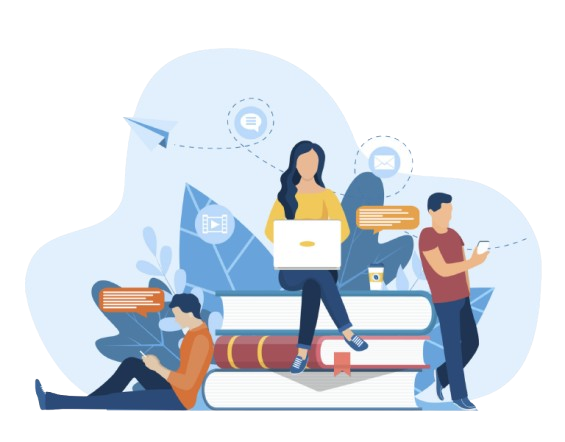
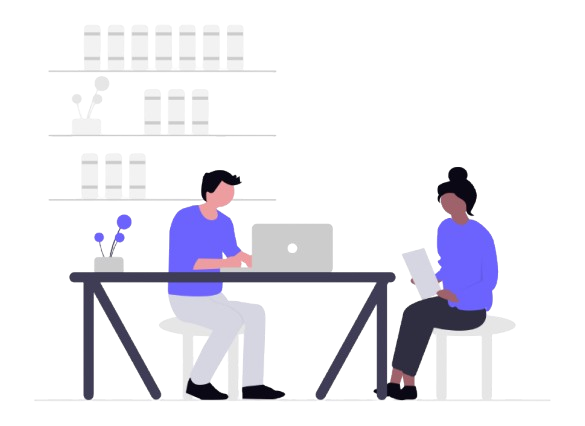
changes about us pic

diff --git a/about-us.html b/about-us.html
@@ -41,8 +41,7 @@
             Looking Forward As a team, we are committed to the continuous evolution of this platform. <br><br> Planora is a growing ecosystem dedicated to student success. We are constantly refining our algorithms and improving our user experience to ensure that whether you are tackling a first-year calculus course or a final-year engineering thesis, Planora is the only support system you need.</p>
         </div>
 
-        <div><p><img src="images/about1.png"></p></div>
-
+<div><p><img src="images/about1.png" width="700"></p></div>
         <div>
             <h2>Ready to plan smarter?</h2>
             <p>Join thousands of students who have taken control of their time and reduced academic stress.</p>
